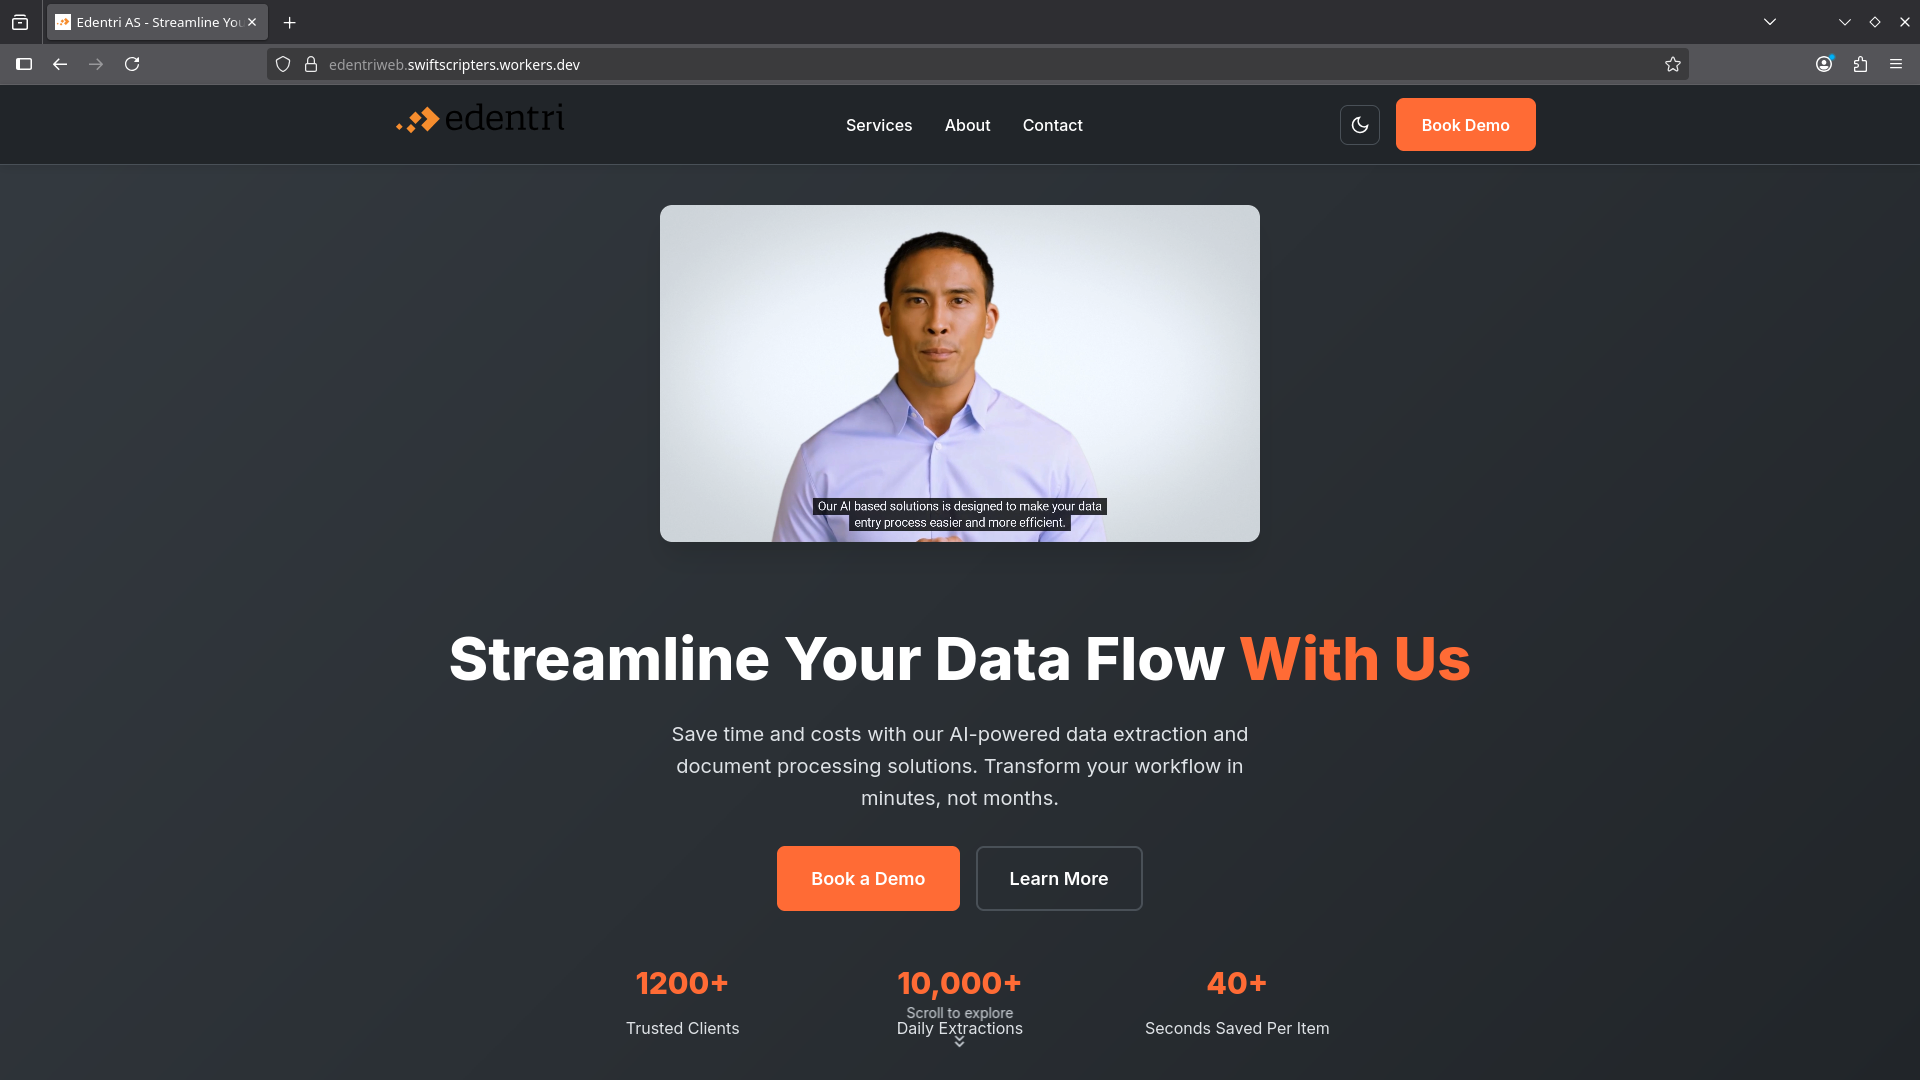
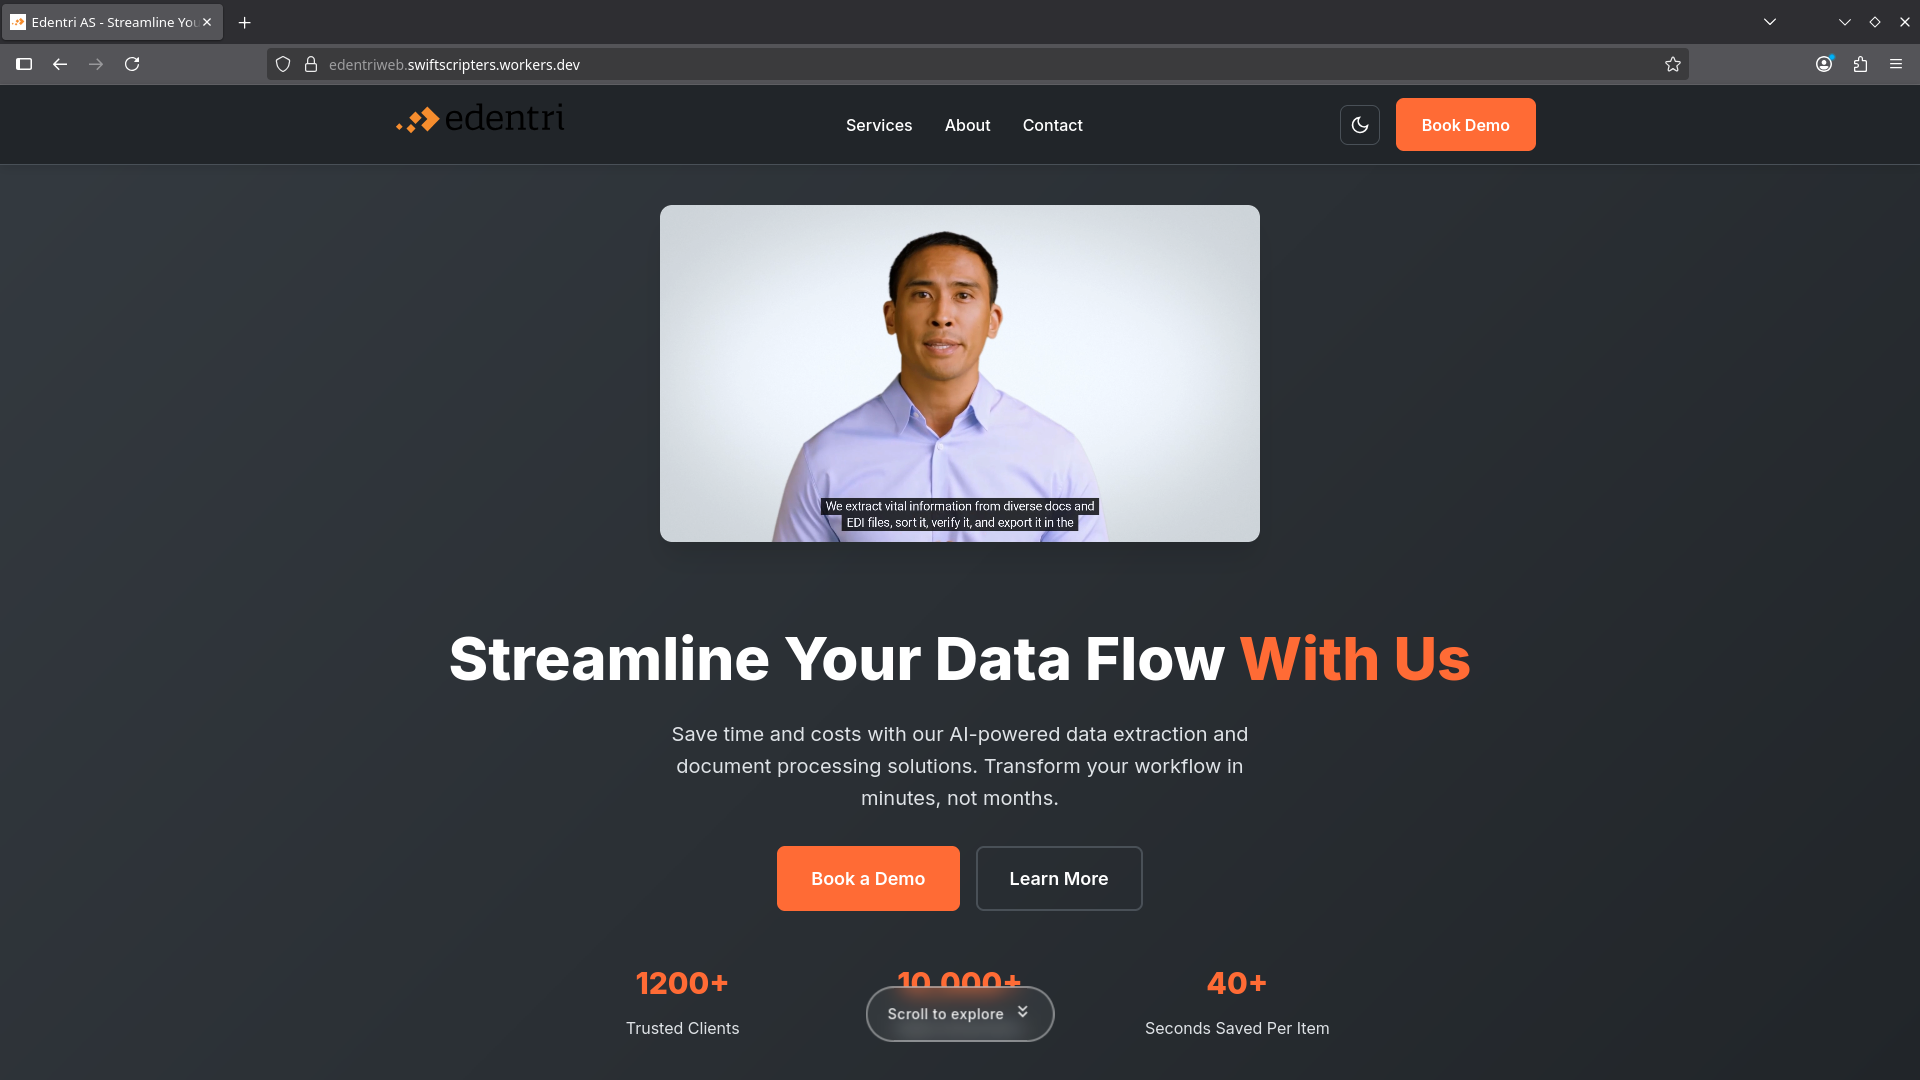
Readjusted the hero section.

diff --git a/themes/edentri-custom/static/css/main.css b/themes/edentri-custom/static/css/main.css
@@ -349,11 +349,11 @@ a:hover {
 /* ===== HERO SECTION ===== */
 .hero {
   position: relative;
-  min-height: 100vh;
+  min-height: calc(100vh - 80px);
   display: flex;
   align-items: center;
   justify-content: center;
-  padding: calc(var(--header-height) + var(--space-8)) 0 var(--space-8);
+  padding: calc(var(--header-height) + var(--space-8)) 0 100px;
   background: linear-gradient(135deg, var(--color-surface) 0%, var(--color-background) 100%);
 }
 
@@ -442,40 +442,31 @@ a:hover {
 
 .hero__scroll-indicator {
   position: absolute;
-  bottom: 30px;
+  bottom: 20px;
   left: 50%;
   transform: translateX(-50%);
   text-align: center;
-  color: rgba(255, 255, 255, 0.8);
+  color: rgba(255, 255, 255, 0.7);
   animation: bounce 2s infinite;
   cursor: pointer;
   transition: all 0.3s ease;
   z-index: 10;
-  padding: 12px 20px;
-  border: 2px solid rgba(255, 255, 255, 0.3);
-  border-radius: 30px;
-  background: rgba(0, 0, 0, 0.1);
-  backdrop-filter: blur(10px);
 }
 
 .hero__scroll-indicator:hover {
   color: #FF6B35;
-  border-color: #FF6B35;
-  background: rgba(255, 107, 53, 0.1);
   transform: translateX(-50%) translateY(-5px);
 }
 
 .hero__scroll-text {
-  display: inline-block;
+  display: block;
   font-size: 14px;
-  margin-right: 8px;
-  font-weight: 500;
-  letter-spacing: 0.5px;
+  margin-bottom: 8px;
+  font-weight: 400;
 }
 
 .hero__scroll-arrow {
-  display: inline-block;
-  vertical-align: middle;
+  display: block;
 }
 
 @keyframes bounce {
@@ -493,14 +484,10 @@ a:hover {
 /* Dark mode adjustments for scroll indicator */
 [data-theme="dark"] .hero__scroll-indicator {
   color: rgba(255, 255, 255, 0.9);
-  border-color: rgba(255, 255, 255, 0.4);
-  background: rgba(255, 255, 255, 0.05);
 }
 
 [data-theme="dark"] .hero__scroll-indicator:hover {
   color: #FF6B35;
-  border-color: #FF6B35;
-  background: rgba(255, 107, 53, 0.1);
 }
 
 /* ===== SERVICES SECTION ===== */
@@ -1412,6 +1399,11 @@ a:hover {
 }
 
 @media (max-width: 768px) {
+  .hero {
+    min-height: calc(100vh - 60px);
+    padding: calc(var(--header-height) + var(--space-6)) 0 80px;
+  }
+  
   .hero__actions {
     flex-direction: column;
     align-items: center;
@@ -1420,6 +1412,14 @@ a:hover {
   .hero__stats {
     grid-template-columns: 1fr;
     gap: var(--space-6);
+  }
+  
+  .hero__scroll-indicator {
+    bottom: 15px;
+  }
+  
+  .hero__scroll-text {
+    font-size: 12px;
   }
   
   .services__grid,
